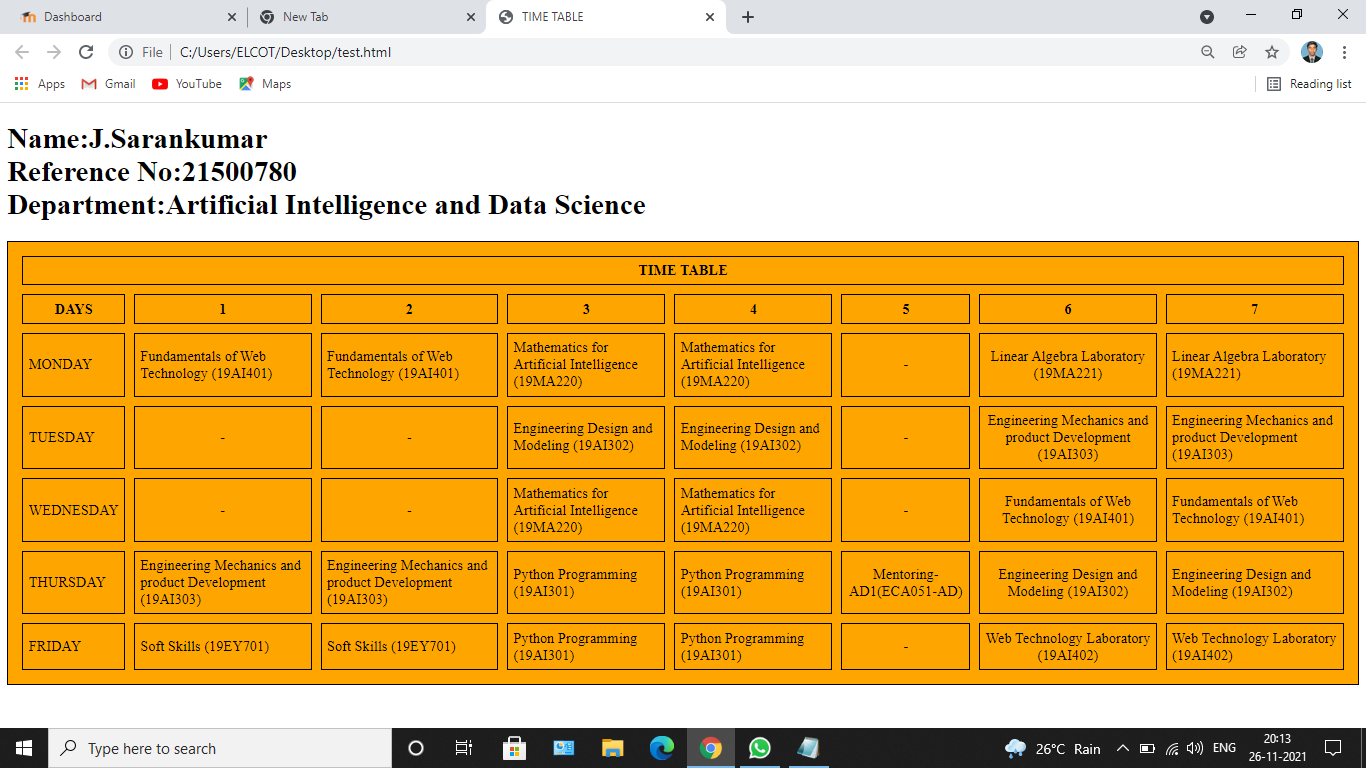
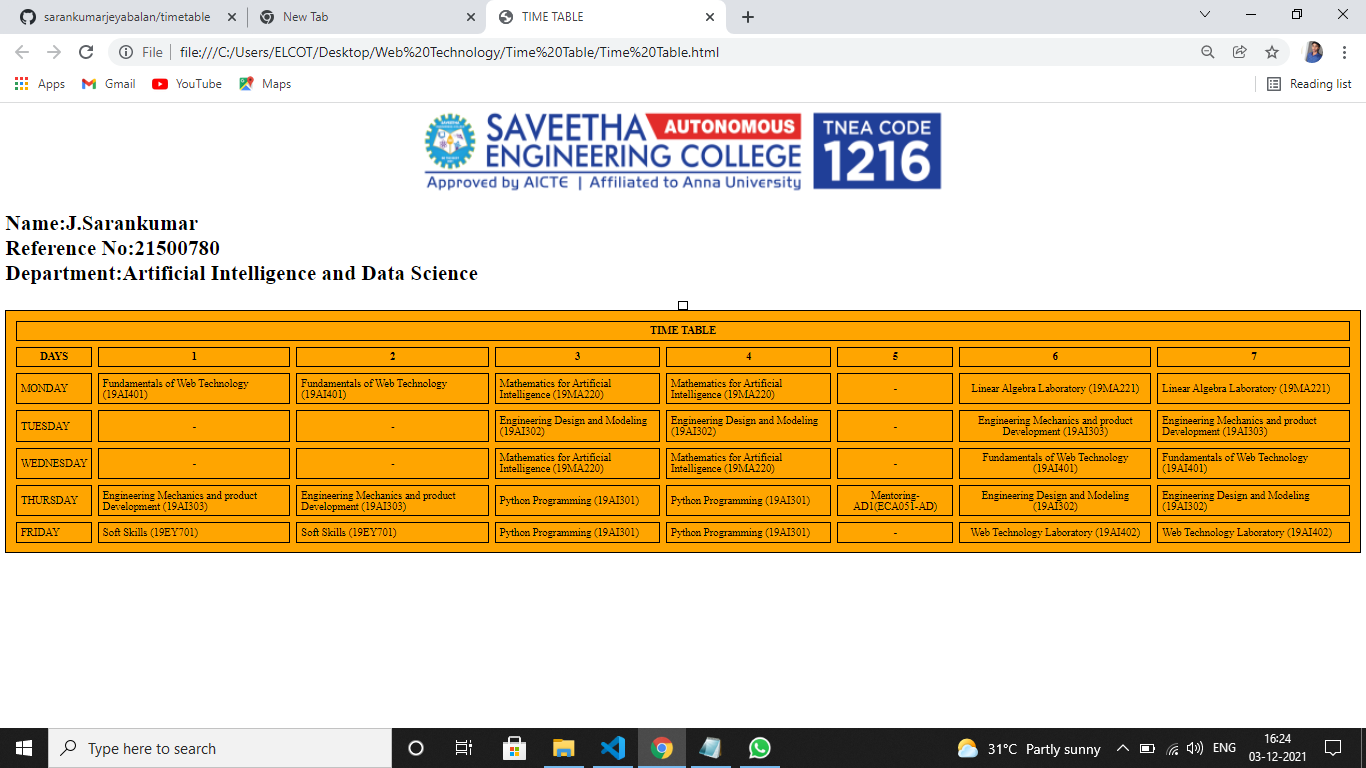
Time Table

diff --git a/README.md b/README.md
@@ -33,8 +33,12 @@ s</style>
    <head>
       <title>TIME TABLE</title>
    </head>
-	
    <body>
+     <center>
+   <img src="http://saveetha.ac.in/images/WEB_LOGO-01.png" width=800 height="130" alt="LOGO"/>
+   </center>
+      <table border = "1" cellspacing="1" bgcolor="white" align="center">
+         </tr>
     <h1>Name:J.Sarankumar<br>
     Reference No:21500780<br>
     Department:Artificial Intelligence and Data Science</h1>
@@ -116,7 +120,13 @@ s</style>
 
 
 
+
+
+
+
+
 ~~~
 # OUPUT
 ![gitlogo](./timetable.png)
+
 
